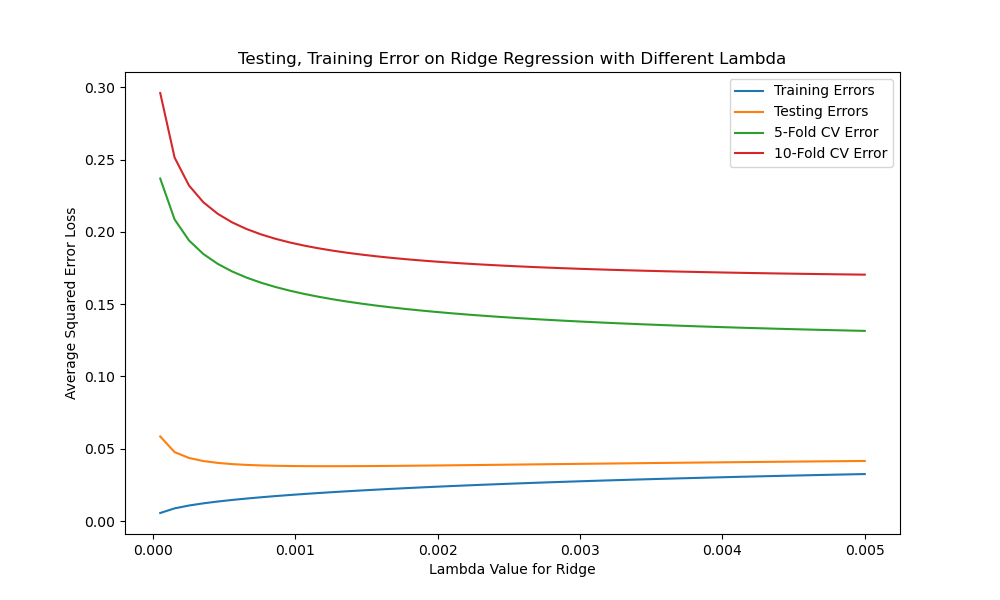
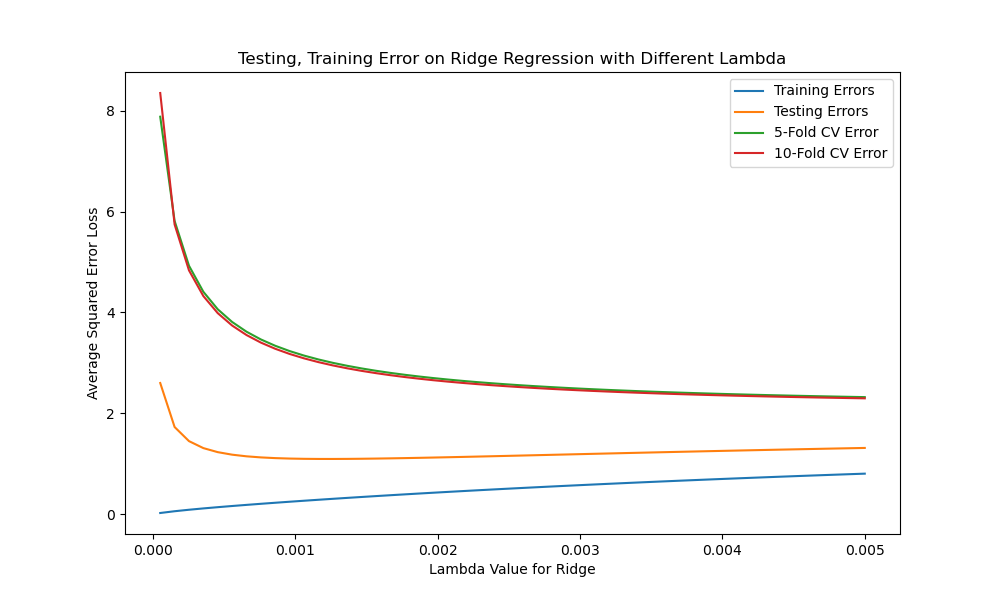
a1-Issued Addressed, Non-parallel shuffling. a2-Statistics and Plot Reporting

diff --git a/a2/q2/run_logistic_regression.py b/a2/q2/run_logistic_regression.py
@@ -10,6 +10,7 @@ def run_logistic_regression():
     train_inputs, train_targets = load_train()
     # train_inputs, train_targets = load_train_small()
     valid_inputs, valid_targets = load_valid()
+    test_inputs, test_targets = load_test()
 
     N, M = train_inputs.shape
 
@@ -40,6 +41,7 @@ def run_logistic_regression():
     #####################################################################
     train_ce = []
     valid_ce = []
+    train_rate, valid_rate, t_ce, v_ce = 0, 0, 0, 0
     i_range = range(hyperparameters["num_iterations"])
 
     for _ in i_range:
@@ -61,6 +63,9 @@ def run_logistic_regression():
     plt.ylabel('Cross Entropy')
     plt.savefig("CE_MNIST.png")  # save the figure
     plt.show()
+
+    test_ce, test_rate = evaluate(test_targets, logistic_predict(weights, test_inputs))
+    print(train_rate, t_ce, valid_rate, v_ce, test_rate, test_ce)
     #####################################################################
     #                       END OF YOUR CODE                            #
     #####################################################################
@@ -167,5 +172,5 @@ def run_check_grad(hyperparameters):
 
 
 if __name__ == "__main__":
-    run_pen_logistic_regression()
-    # run_logistic_regression()
+    # run_pen_logistic_regression()
+    run_logistic_regression()

diff --git a/a1/hw1_q4_code.py b/a1/hw1_q4_code.py
@@ -19,6 +19,7 @@ def shuffle_data(data: object) -> object:
     :rtype: object
     :return:
     """
+    np.random.seed(123)
     n_x = np.random.permutation(data['X'])
     n_t = np.random.permutation(data['t'])
     n_data = {'X': n_x, 't': n_t}
@@ -84,7 +85,7 @@ def loss(data, model) -> object:
     w = model
     N = len(t)
     pred = predict(data, model)
-    avg_loss = np.linalg.norm(np.subtract(pred, t))/ (N*2)
+    avg_loss = np.square(np.linalg.norm(np.subtract(pred, t))) / (N*2)
     return avg_loss
 
 

diff --git a/a2/q3/utils.py b/a2/q3/utils.py
@@ -71,4 +71,4 @@ def display_plot(train, valid, y_label, number=0):
     plt.legend()
     plt.draw()
     plt.pause(0.0001)
-    plt.savefig('NeuralNet' + y_label + ' vs Epoch.png')
+    plt.savefig('NeuralNet ' + y_label + ' vs Epoch.png')

diff --git a/a2/q2/logistic.py b/a2/q2/logistic.py
@@ -31,7 +31,7 @@ def logistic_predict(weights, data):
     return y
 
 
-def evaluate(targets, y):
+def evaluate(targets, y) -> object:
     """ Compute evaluation metrics.
 
     Note: N is the number of examples
